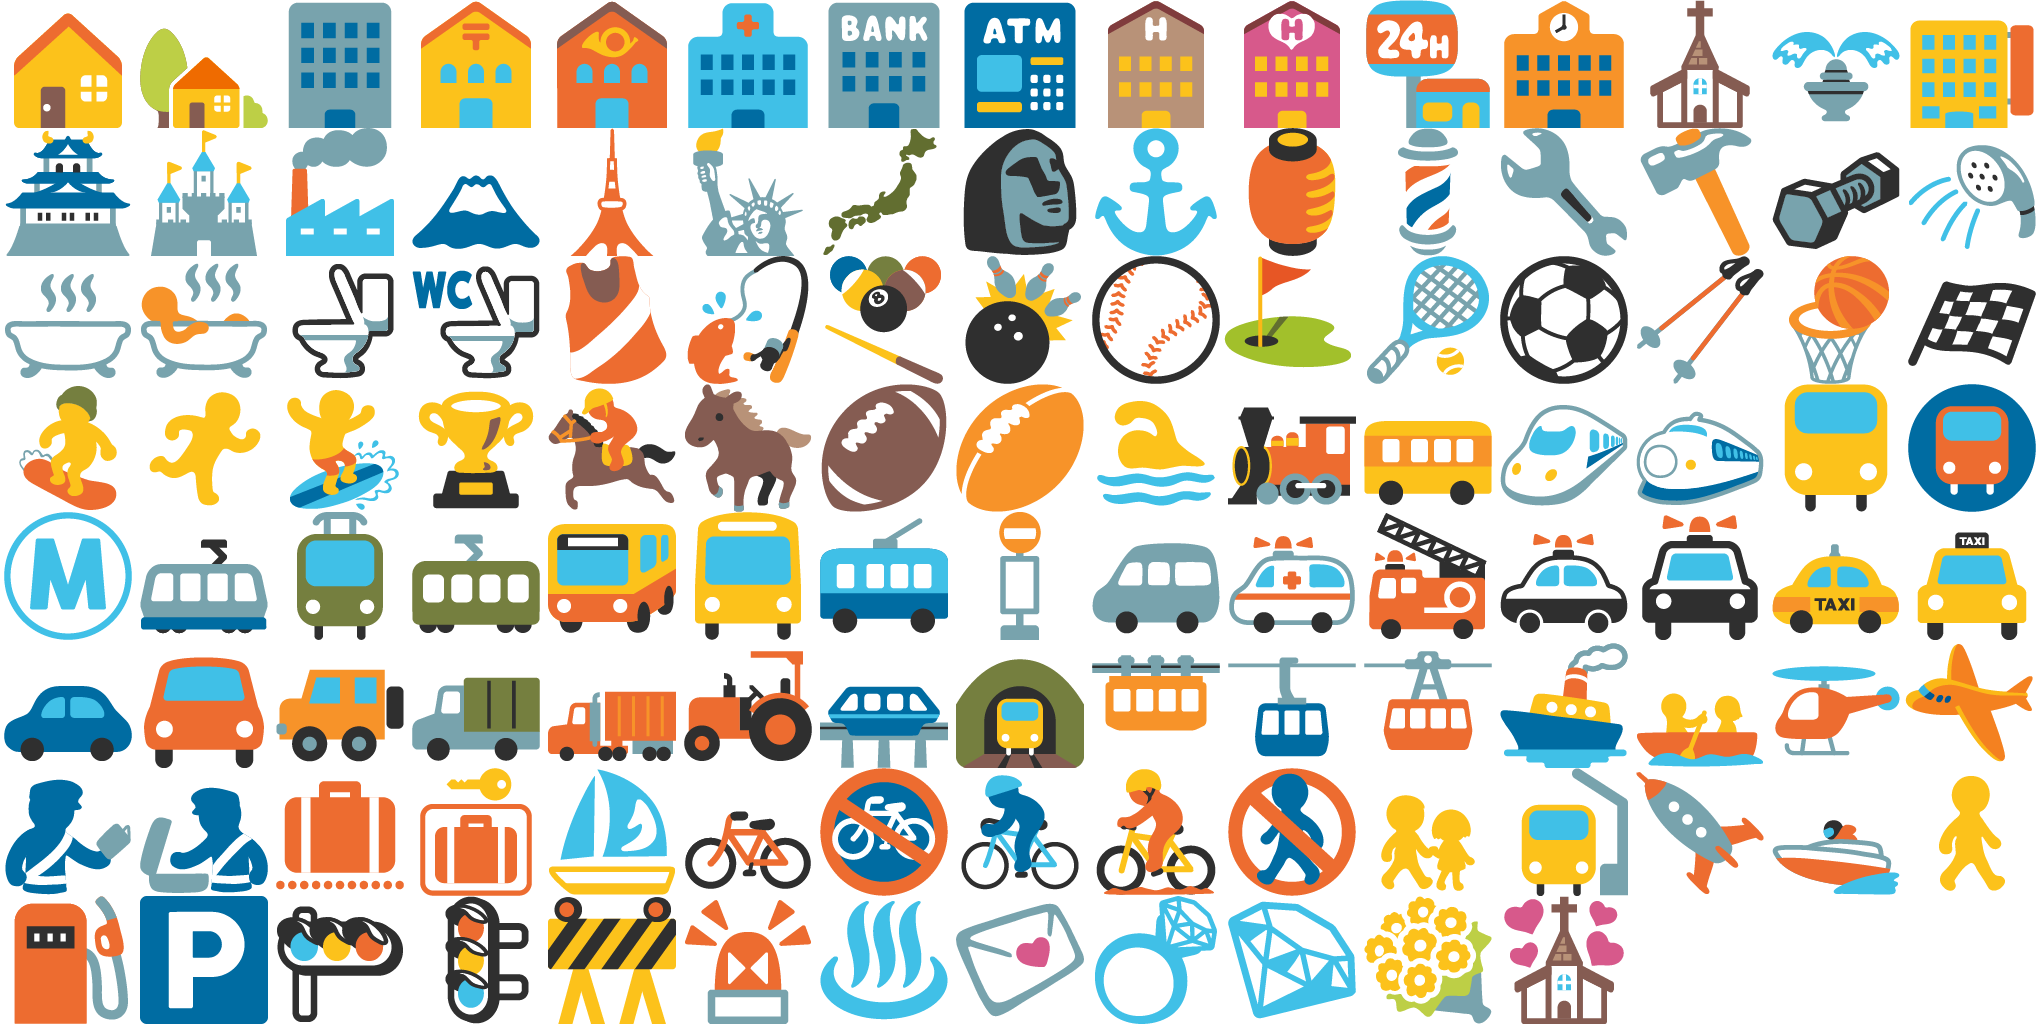
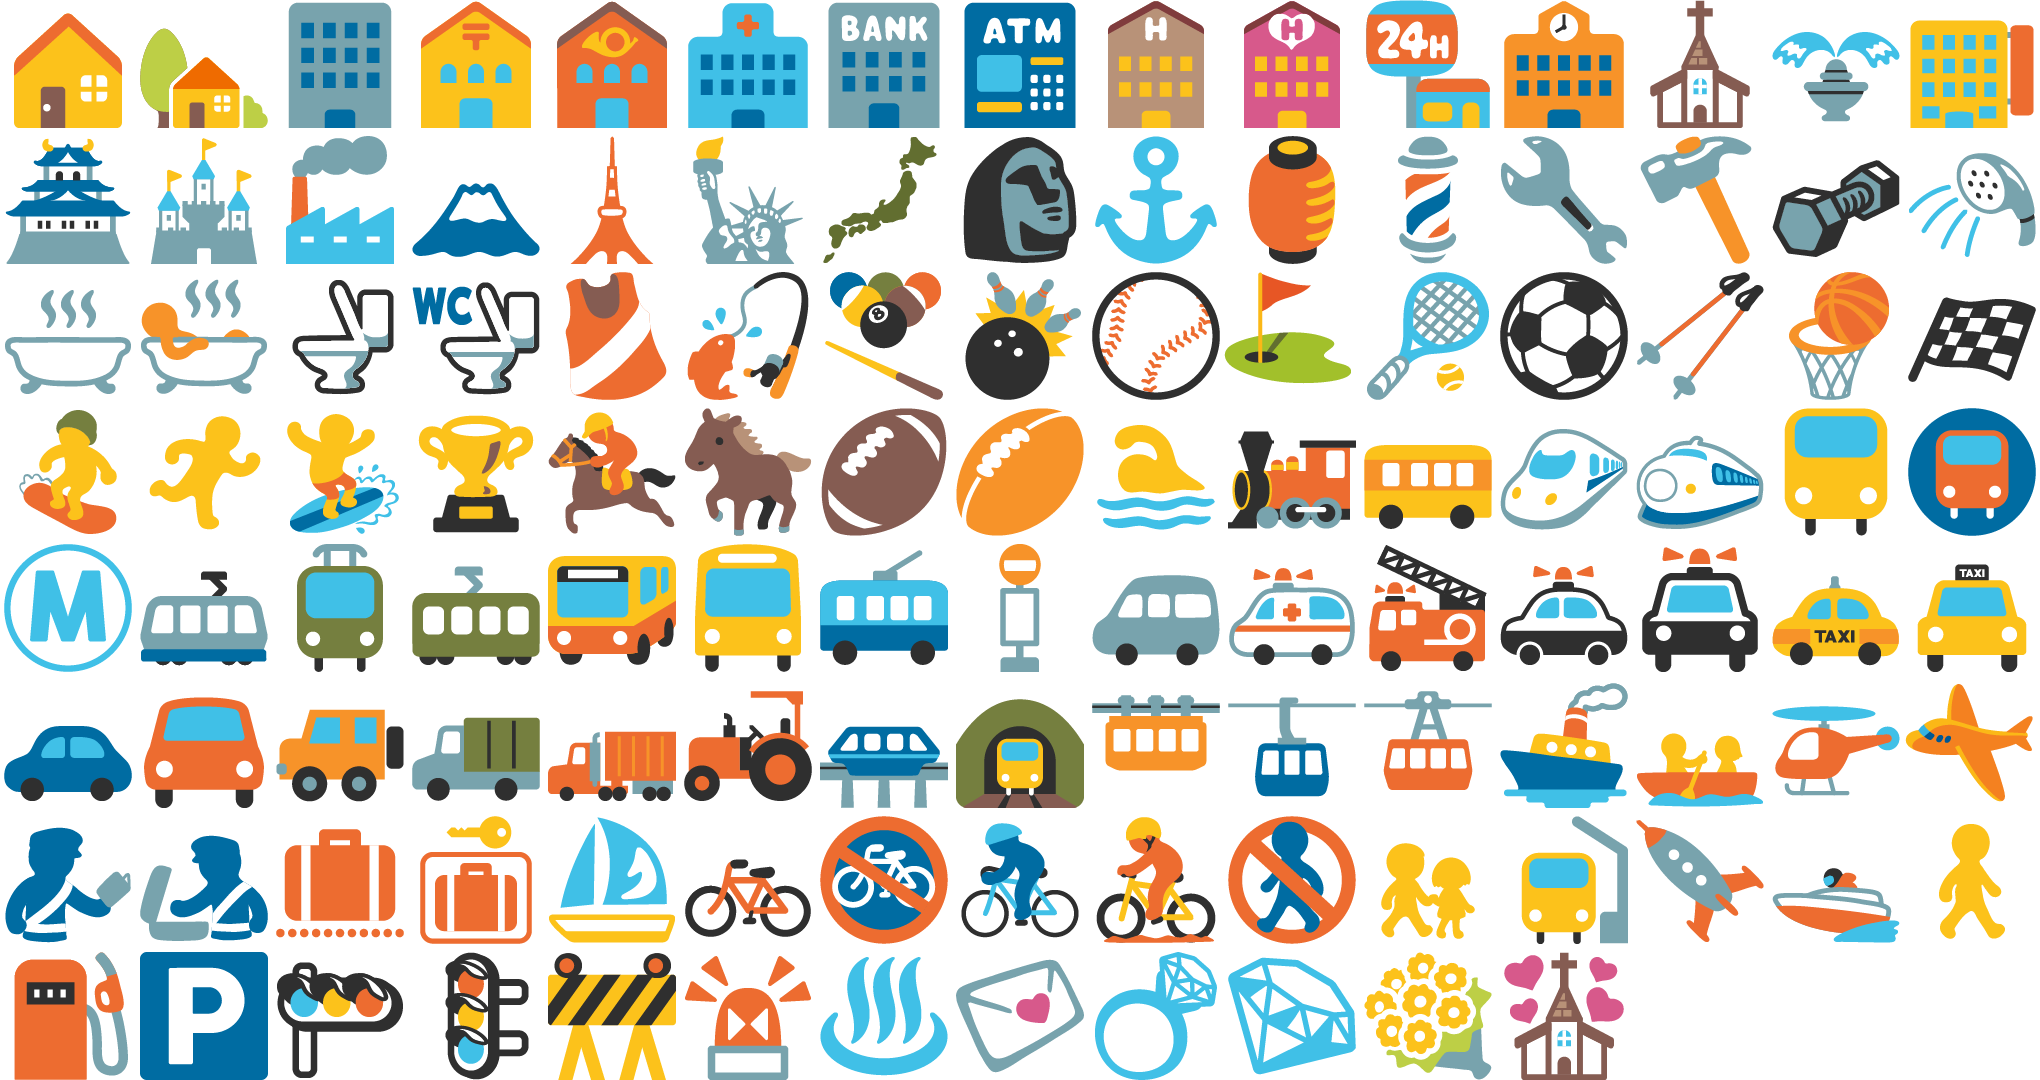
Add vertical spacing to emoji sprites
Downsampling on low-dpi devices led to 1px bleeds between
sprite areas.

Fixes https://github.com/WhisperSystems/TextSecure/issues/3203
Closes https://github.com/WhisperSystems/TextSecure/pull/3206
// FREEBIE

diff --git a/src/org/smssecure/smssecure/components/emoji/EmojiProvider.java b/src/org/smssecure/smssecure/components/emoji/EmojiProvider.java
@@ -50,11 +50,13 @@ public class EmojiProvider {
   public static final double EMOJI_SMALL      = 0.50;
   public static final int    EMOJI_RAW_HEIGHT = 128;
   public static final int    EMOJI_RAW_WIDTH  = 136;
+  public static final int    EMOJI_VERT_PAD   = 8;
   public static final int    EMOJI_PER_ROW    = 15;
 
   private final Context context;
   private final double  drawWidth;
   private final double  drawHeight;
+  private final double  verticalPad;
   private final Handler handler = new Handler(Looper.getMainLooper());
 
   public static EmojiProvider getInstance(Context context) {
@@ -71,9 +73,10 @@ public class EmojiProvider {
   private EmojiProvider(Context context) {
     int[] pages = ResUtil.getResourceIds(context, R.array.emoji_categories);
 
-    this.context    = context.getApplicationContext();
-    this.drawHeight = context.getResources().getDimension(R.dimen.emoji_drawer_size);
-    this.drawWidth  = drawHeight * ((double)EMOJI_RAW_WIDTH) / EMOJI_RAW_HEIGHT;
+    this.context     = context.getApplicationContext();
+    this.drawHeight  = context.getResources().getDimension(R.dimen.emoji_drawer_size);
+    this.drawWidth   = drawHeight * ((double)EMOJI_RAW_WIDTH) / EMOJI_RAW_HEIGHT;
+    this.verticalPad = EMOJI_VERT_PAD * drawHeight / EMOJI_RAW_HEIGHT;
     Log.w(TAG, "draw size: " + drawWidth + "x" + drawHeight);
     for (int i = 0; i < pages.length; i++) {
       final EmojiPageBitmap page = new EmojiPageBitmap(i);
@@ -156,9 +159,9 @@ public class EmojiProvider {
 
       canvas.drawBitmap(bmp,
                         new Rect((int)(row_index * width),
-                                 (int)(row * height),
+                                 (int)(row * height + row * verticalPad),
                                  (int)((row_index + 1) * width),
-                                 (int)((row + 1) * height)),
+                                 (int)((row + 1) * height + row * verticalPad)),
                         b,
                         paint);
     }
